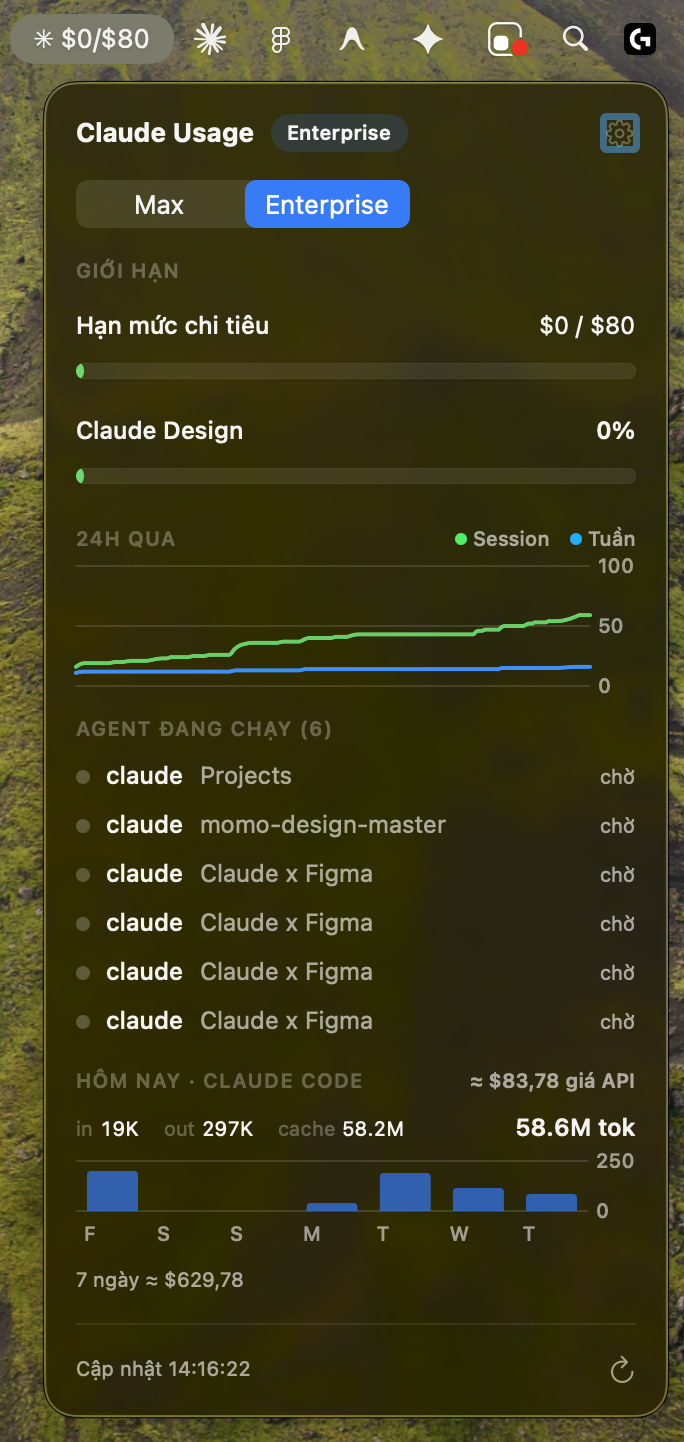
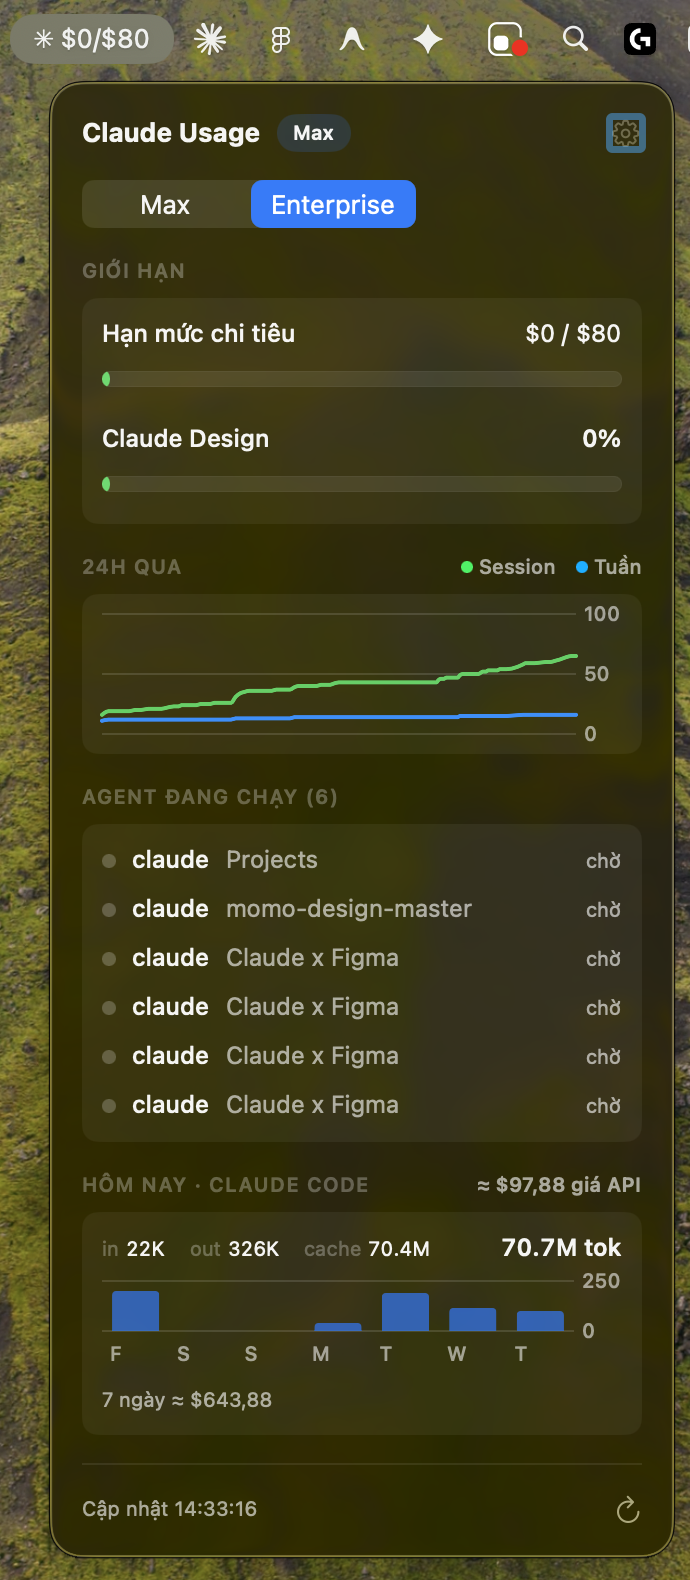
Docs: card-style screenshots (Max/Enterprise/Settings), file-based token note

diff --git a/README.md b/README.md
@@ -3,8 +3,9 @@
 macOS menu bar app theo dõi liên tục usage limits của Claude — hỗ trợ gói cá nhân (Pro/Max) lẫn **Enterprise**, không cần mở `/usage` trong Claude Code nữa.
 
 <p align="center">
-  <img src="docs/screenshot-max.png" alt="ClaudeBar — tài khoản Max" width="300">
-  <img src="docs/screenshot-enterprise.png" alt="ClaudeBar — tài khoản Enterprise" width="300">
+  <img src="docs/screenshot-max.png" alt="ClaudeBar — tài khoản Max" width="260">
+  <img src="docs/screenshot-enterprise.png" alt="ClaudeBar — tài khoản Enterprise" width="260">
+  <img src="docs/screenshot-settings.png" alt="ClaudeBar — Cài đặt" width="260">
 </p>
 
 **Menu bar:** gói cá nhân hiện `✳ 59% · 16% · 1h03` (session 5h · weekly · countdown tới reset), gói Enterprise hiện `✳ $0/$80` (hạn mức chi tiêu) — thêm `❗` khi sắp chạm limit.
@@ -40,7 +41,7 @@ Từ đó về sau **không cần cài tay nữa** — có bản mới app sẽ 
 Hai cách kết nối tài khoản:
 
 1. **Mặc định**: app đọc OAuth token của Claude Code từ macOS Keychain (item `Claude Code-credentials`) — **chỉ đọc**, không sửa, không tự refresh, không gửi đi đâu ngoài `api.anthropic.com`. Phù hợp người dùng Claude Code hằng ngày (Claude Code tự gia hạn token).
-2. **Sign in with Claude** (Settings ⚙ → Account): kết nối ClaudeBar trực tiếp với tài khoản Claude qua OAuth chính thức của Anthropic — app giữ token **riêng** trong Keychain item của app và tự quản lý, độc lập hoàn toàn với Claude Code. Phù hợp người chủ yếu dùng Claude app/web, hoặc muốn theo dõi tài khoản thứ hai (vd Enterprise).
+2. **Sign in with Claude** (Settings ⚙ → Account): kết nối ClaudeBar trực tiếp với tài khoản Claude qua OAuth chính thức của Anthropic — app giữ token **riêng** (file `~/Library/Application Support/ClaudeBar/credentials.json`, quyền 0600 chỉ user đọc được) và tự quản lý, độc lập hoàn toàn với Claude Code. Phù hợp người chủ yếu dùng Claude app/web, hoặc muốn theo dõi tài khoản thứ hai (vd Enterprise). Không có hộp thoại xin quyền nào cho phần này.
 
 Chi tiết:
 
@@ -55,7 +56,7 @@ Chi tiết:
 
 ```bash
 git clone https://github.com/MXVUX/ClaudeBar.git && cd ClaudeBar
-./scripts/build_dmg.sh 1.6.0   # → dist/ClaudeBar.dmg (universal: Apple Silicon + Intel)
+./scripts/build_dmg.sh 1.6.2   # → dist/ClaudeBar.dmg (universal: Apple Silicon + Intel)
 ```
 
 Yêu cầu Xcode 16+ / Swift 6. Script tự ký bằng identity `ClaudeBar Signing` nếu có trong Keychain, không thì ký ad-hoc.
